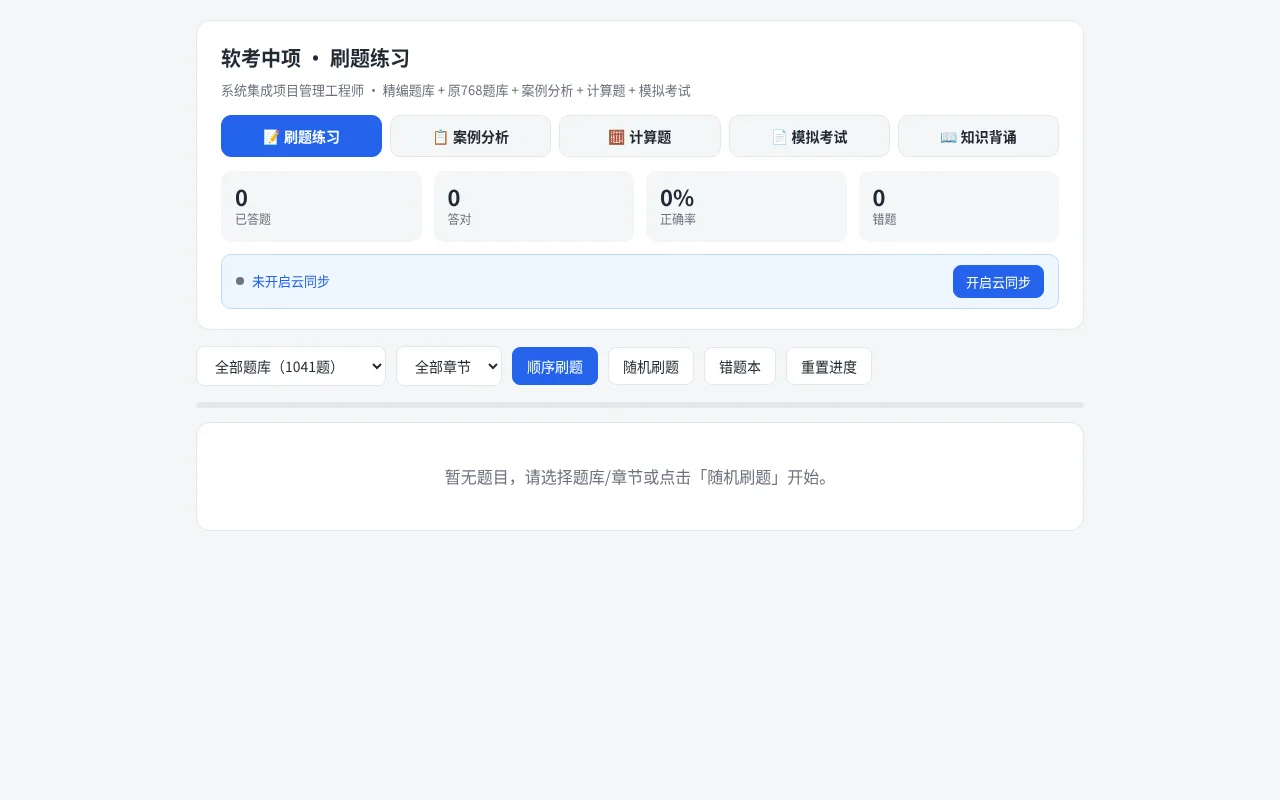
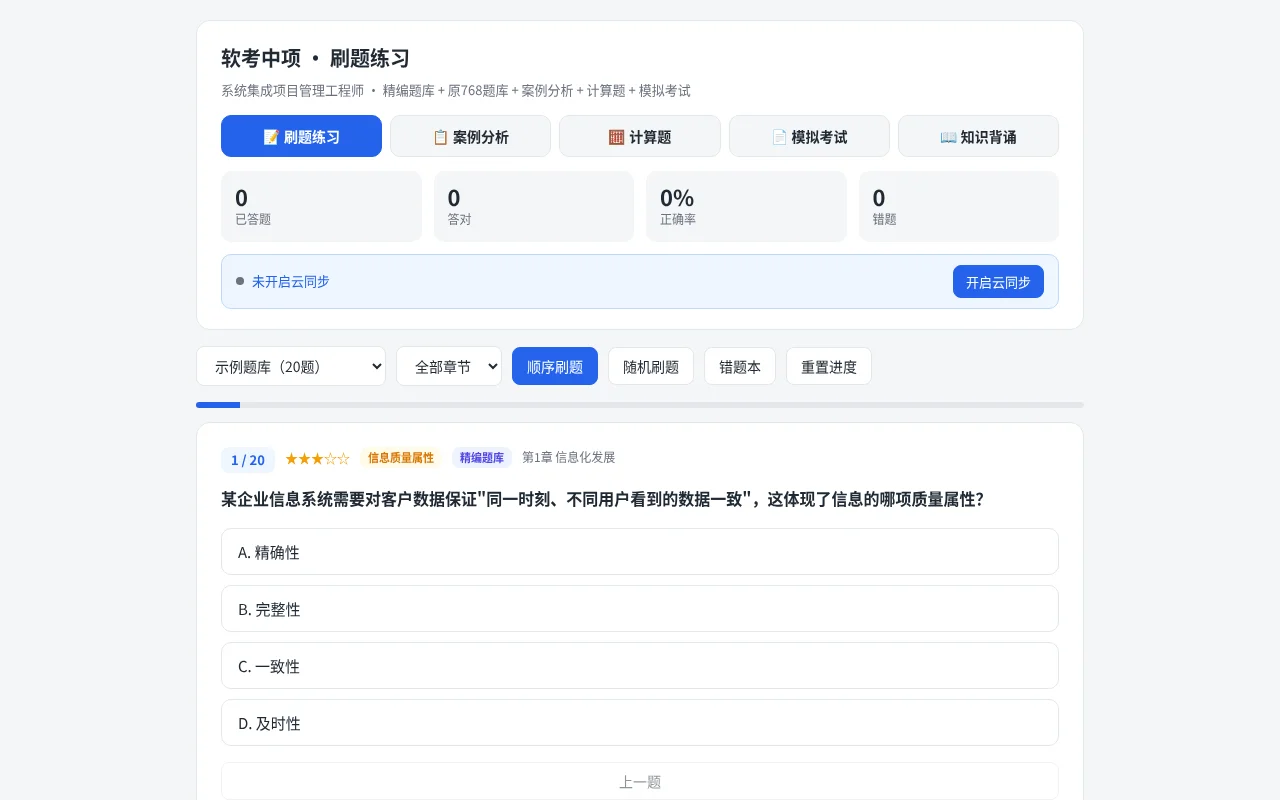
Fix interactive template preview

diff --git a/wb1024-c456-85da7171/showcase/preview.html b/wb1024-c456-85da7171/showcase/preview.html
@@ -173,7 +173,7 @@ button:disabled{opacity:.5;cursor:not-allowed}
   <div id="mode-quiz">
     <div class="controls">
       <select id="sel-src">
-        <option value="all">全部题库（1041题）</option>
+        <option value="all">示例题库（20题）</option>
         <option value="jb">精编题库（真题风格）</option>
         <option value="768">原768题题库</option>
         <option value="zt">历年真题</option>
@@ -273,7 +273,7 @@ button:disabled{opacity:.5;cursor:not-allowed}
   </div>
 </div>
 
-<script>window.quizDatabase={from(){return {select(){return {eq(){return {async maybeSingle(){return {data:null,error:null}}}}},async upsert(){return {error:null}}}}};
+<script>window.quizDatabase={from: function(){return {select:function(){return {eq:function(){return {maybeSingle:async function(){return {data:null,error:null}}}}}},upsert:async function(){return {error:null}}}}};
 window.QUESTION_DATA = [{"ch": 1, "tag": "信息质量属性", "star": "★★★☆☆", "q": "某企业信息系统需要对客户数据保证\"同一时刻、不同用户看到的数据一致\"，这体现了信息的哪项质量属性？", "opts": ["A. 精确性", "B. 完整性", "C. 一致性", "D. 及时性"], "ans": "C", "exp": "一致性指信息在不同时间、不同来源之间保持统一、无矛盾。精确性指信息准确无误，完整性指信息齐全不缺失，及时性指信息在需要时能及时获取。", "src": "jb"}, {"ch": 1, "tag": "国家信息化六要素", "star": "★★★★☆", "q": "国家信息化体系六要素中，作为信息化建设的基础和支撑，为其他要素提供资源的是？", "opts": ["A. 信息技术应用", "B. 信息网络", "C. 信息资源", "D. 信息化人才"], "ans": "C", "exp": "六要素：信息资源（核心/基础）、信息网络（基础）、信息技术应用（龙头）、信息技术和产业、信息化人才、信息化政策法规和标准规范。信息资源是信息化的核心和基础。", "src": "jb"}, {"ch": 1, "tag": "两化融合", "star": "★★★☆☆", "q": "关于\"两化融合\"，下列说法正确的是？", "opts": ["A. 指工业化和城镇化融合", "B. 指信息化和工业化深度融合，以信息化带动工业化、以工业化促进信息化", "C. 仅指企业上云", "D. 与智能制造无关"], "ans": "B", "exp": "两化融合=信息化与工业化融合。A混淆城镇化，C过于片面，D错误（智能制造是两化融合的重要体现）。", "src": "jb"}, {"ch": 1, "tag": "新型基础设施", "star": "★★★★☆", "q": "下列哪一项不属于\"新型基础设施建设\"（新基建）的三大方向之一？", "opts": ["A. 信息基础设施", "B. 融合基础设施", "C. 创新基础设施", "D. 传统交通基础设施"], "ans": "D", "exp": "新基建三大方向：信息基础设施（5G、数据中心等）、融合基础设施（智能交通、智慧能源等）、创新基础设施（重大科技、产业技术创新等）。传统交通基础设施不属于新基建。", "src": "jb"}, {"ch": 1, "tag": "数字中国", "star": "★★★☆☆", "q": "\"数字中国\"建设的\"2522\"框架中，第二个\"2\"指的是？", "opts": ["A. 两大基础", "B. 两大能力", "C. 两个环境", "D. 两大体系"], "ans": "B", "exp": "\"2522\"框架：夯实数字基础设施和数据资源体系\"两大基础\"，推进数字技术与经济/政治/文化/社会/生态文明建设\"五位一体\"深度融合，强化数字技术创新体系和数字安全屏障\"两大能力\"，优化数字化发展国内国际\"两个环境\"。", "src": "jb"}, {"ch": 1, "tag": "数字经济", "star": "★★★★☆", "q": "关于数字经济的\"四化\"框架，下列说法错误的是？", "opts": ["A. 数字产业化", "B. 产业数字化", "C. 数据价值化", "D. 城市数字化"], "ans": "D", "exp": "数字经济\"四化\"：数字产业化、产业数字化、数据价值化、数字化治理。城市数字化不属于四化框架。", "src": "jb"}, {"ch": 1, "tag": "数字化转型", "star": "★★★★☆", "q": "企业数字化转型的本质是？", "opts": ["A. 单纯购买新的信息系统", "B. 利用数字技术重构业务流程、商业模式和组织，创造新价值", "C. 把纸质文件电子化", "D. 裁员降本"], "ans": "B", "exp": "数字化转型是系统性变革，核心是用数字技术重塑业务模式、组织形态和商业模式，创造新价值。A、C是误区，D是错误导向。", "src": "jb"}, {"ch": 1, "tag": "元宇宙", "star": "★★☆☆☆", "q": "关于元宇宙，下列描述正确的是？", "opts": ["A. 元宇宙是单一公司开发的游戏", "B. 元宇宙是整合多种新技术产生的虚实相融的互联网应用和社会形态", "C. 元宇宙等同于虚拟现实VR", "D. 元宇宙不需要网络"], "ans": "B", "exp": "元宇宙是整合区块链、VR/AR、人工智能、数字孪生等技术的虚实融合新形态。A、C、D均错误。", "src": "jb"}, {"ch": 1, "tag": "数据要素", "star": "★★★★☆", "q": "数据作为新型生产要素，其区别于土地、资本等传统要素的显著特征，下列表述最准确的是？", "opts": ["A. 数据会因使用而被消耗", "B. 数据可无限复制、非排他性使用，且越用价值越高", "C. 数据价值与数据量严格成正比", "D. 数据只能归政府所有"], "ans": "B", "exp": "数据要素具有可复制、可共享、非竞争性（使用不消耗）等特点，可通过分析挖掘增值，即\"越用越有价值\"。A错误（数据不因使用消耗），C错误（价值取决于质量与分析能力），D错误（数据权属多元）。", "src": "jb"}, {"ch": 1, "tag": "数据要素市场化", "star": "★★★★★", "q": "推进数据要素市场化配置，其制度基础的核心是？", "opts": ["A. 数据产权制度", "B. 数据免费开放制度", "C. 数据垄断制度", "D. 数据私有化制度"], "ans": "A", "exp": "数据要素市场化的基础制度包括\"数据产权、流通交易、收益分配、安全治理\"四个方面，其中数据产权制度是核心和前提，解决\"数据归谁、怎么用、收益怎么分\"的问题。", "src": "jb"}, {"ch": 1, "tag": "数字政府", "star": "★★★★☆", "q": "数字政府建设的关键特征不包括下列哪一项？", "opts": ["A. 数据驱动决策", "B. 一体化政务服务", "C. 线上线下割裂", "D. 提升政府治理效能"], "ans": "C", "exp": "数字政府强调\"一网通办\"\"一网统管\"，推动线上线下融合、数据共享，提升治理效能。C\"线上线下割裂\"与数字政府目标相悖。", "src": "jb"}, {"ch": 1, "tag": "工业互联网", "star": "★★★★★", "q": "工业互联网的三大体系是？", "opts": ["A. 网络、平台、安全", "B. 硬件、软件、数据", "C. 感知、传输、应用", "D. 采集、存储、分析"], "ans": "A", "exp": "工业互联网三大体系：网络体系（互联互通的基础）、平台体系（数据汇聚与赋能的载体）、安全体系（保障）。", "src": "jb"}, {"ch": 1, "tag": "东数西算", "star": "★★★★☆", "q": "\"东数西算\"工程的核心目的是？", "opts": ["A. 把东部数据全部迁移到西部存储", "B. 通过构建全国一体化算力网络，优化算力资源布局，促进东西部协同", "C. 只在西部建设数据中心", "D. 减少全国的数据中心数量"], "ans": "B", "exp": "\"东数西算\"通过全国一体化大数据中心体系，将东部算力需求有序引导到西部，优化算力布局、降低能耗、促进区域协调发展。A、C、D表述片面。", "src": "jb"}, {"ch": 1, "tag": "数据安全法", "star": "★★★★★", "q": "依据《中华人民共和国数据安全法》，下列关于数据分类分级保护的说法正确的是？", "opts": ["A. 所有数据统一按一个等级保护", "B. 国家建立数据分类分级保护制度，对重要数据实行重点保护", "C. 数据分类分级只适用于政府数据", "D. 个人数据无需任何保护"], "ans": "B", "exp": "《数据安全法》明确国家建立数据分类分级保护制度，对关系国家安全、国民经济命脉等重要数据实行重点保护，同时加强个人信息保护。", "src": "jb"}, {"ch": 1, "tag": "数字化转型成熟度", "star": "★★★★★", "q": "评估企业数字化转型成熟度时，通常从多个维度衡量。下列不属于常见成熟度维度的是？", "opts": ["A. 战略与组织", "B. 数据与技术", "C. 业务流程", "D. 员工考勤打卡"], "ans": "D", "exp": "数字化转型成熟度常见维度：战略、组织、文化、数据、技术、流程、客户体验等。\"员工考勤打卡\"是日常行政事项，不是转型成熟度衡量维度。", "src": "jb"}, {"ch": 1, "tag": "数字孪生", "star": "★★★★☆", "q": "关于数字孪生，下列说法最准确的是？", "opts": ["A. 数字孪生只是三维动画展示", "B. 数字孪生是物理实体在数字空间的全要素映射，并可双向交互、动态演进", "C. 数字孪生等同于传统仿真", "D. 数字孪生只能用于制造业"], "ans": "B", "exp": "数字孪生是物理对象的数字化镜像，强调虚实双向映射、实时同步、动态演进，可应用于制造、城市、医疗等多领域。A、C低估其内涵，D范围过窄。", "src": "jb"}, {"ch": 1, "tag": "信息化建设发展规律", "star": "★★★★☆", "q": "从信息化发展的宏观规律看，下列认识正确的是？", "opts": ["A. 信息化建设可以一蹴而就", "B. 信息化遵循\"技术驱动、业务牵引、标准先行、安全同步\"的规律", "C. 信息化只需关注技术，无需管理", "D. 信息化成功与否与组织变革无关"], "ans": "B", "exp": "信息化是长期系统工程，需要技术与业务深度融合、标准规范先行、安全同步保障，并伴随组织与管理变革。A、C、D认识片面。", "src": "jb"}, {"ch": 2, "tag": "OSI七层模型", "star": "★★★★★", "q": "在OSI参考模型中，负责\"端到端\"可靠数据传输、差错控制和流量控制的层是？", "opts": ["A. 数据链路层", "B. 网络层", "C. 传输层", "D. 会话层"], "ans": "C", "exp": "传输层提供端到端（进程到进程）的可靠传输、差错控制和流量控制（TCP）。数据链路层是相邻节点间，网络层负责路由寻址。", "src": "jb"}, {"ch": 2, "tag": "OSI七层模型", "star": "★★★★★", "q": "下列协议/设备与OSI层的对应关系中，错误的是？", "opts": ["A. IP协议——网络层", "B. HTTP协议——应用层", "C. 交换机——数据链路层", "D. 路由器——传输层"], "ans": "D", "exp": "路由器工作在网络层（根据IP地址转发），不是传输层。交换机在数据链路层，IP在网络层，HTTP在应用层。", "src": "jb"}, {"ch": 2, "tag": "TCP/IP协议", "star": "★★★★☆", "q": "关于TCP和UDP的区别，下列说法正确的是？", "opts": ["A. TCP是面向无连接的，UDP是面向连接的", "B. TCP提供可靠传输，UDP提供不可靠传输", "C. UDP保证数据按序到达", "D. TCP不能用于传输文件"], "ans": "B", "exp": "TCP面向连接、可靠、有确认重传机制；UDP无连接、不可靠、不保证按序，但效率高、开销小。", "src": "jb"}];
 window.CASE_DATA = {"cases": [{"title": "案例一：范围管理", "domain": "范围管理", "scenario": "某公司承接一个办公自动化系统开发项目。项目启动后，项目经理王某未编制范围管理计划就组织开发。开发过程中，客户不断提出新需求，王某为了客户满意度都口头答应，直接安排开发人员实现。由于需求不断增加，项目范围不断扩大，进度严重滞后，成本超支。", "questions": [{"q": "问题1：请指出该项目在范围管理方面存在的主要问题。", "points": "8分", "keys": ["范围管理计划", "需求", "收集", "分析", "范围说明书", "范围基准", "变更", "范围蔓延", "确认", "控制"], "answer": ["未编制范围管理计划和需求管理计划。", "未进行详细的需求收集和需求分析。", "未定义范围、未形成项目范围说明书和范围基准。", "客户新增需求未走变更控制流程，导致范围蔓延。", "需求变更仅口头答应，未书面记录和评估影响。", "未对范围进行确认和控制。"]}, {"q": "问题2：请给出改进措施。", "points": "7分", "keys": ["范围管理计划", "需求管理计划", "访谈", "原型", "需求文件", "需求跟踪矩阵", "范围说明书", "WBS", "范围基准", "变更控制", "CCB", "确认范围", "防止范围蔓延"], "answer": ["编制范围管理计划、需求管理计划，明确范围管理流程。", "采用访谈、原型等方法系统收集和分析需求，形成需求文件和需求跟踪矩阵。", "定义范围，编制项目范围说明书，创建WBS，建立范围基准。", "建立整体变更控制流程，所有变更需书面申请、评估影响、CCB审批。", "定期确认范围，监控范围基准，防止范围蔓延。"]}]}, {"title": "案例二：进度管理", "domain": "进度管理", "scenario": "某项目计划6个月完成。项目启动后，项目经理编制了进度计划，但未识别关键路径。执行到第3个月时，由于关键活动资源不足，进度延误1个月。项目经理安排团队加班赶工，但仍有部分活动因技术问题返工。", "questions": [{"q": "问题1：指出进度管理存在的问题。", "points": "8分", "keys": ["关键路径", "资源估算", "资源不足", "风险识别", "返工", "进度控制", "纠偏", "赶工"], "answer": ["未识别关键路径，对关键活动关注不足。", "未做资源估算，关键活动资源不足。", "未进行风险识别和应对，技术问题导致返工。", "进度控制不到位，延误未及时发现和纠偏。", "赶工未评估对成本、质量、风险的影响。"]}, {"q": "问题2：请说明进度压缩的两种常用技术及各自优缺点。", "points": "7分", "keys": ["赶工", "资源", "成本", "快速跟进", "并行", "风险", "返工"], "answer": ["赶工：增加资源或加班，以成本换时间，可能增加成本和风险，适用于能通过增加资源缩短工期的活动。", "快速跟进：将顺序活动并行，以风险换时间，可能造成返工和风险增加，适用于能并行开展的活动。"]}]}, {"title": "案例三：成本管理（挣值）", "domain": "成本管理", "scenario": "某项目BAC=200万元。项目经理在项目执行过程中，未定期进行成本绩效分析。第5个月检查发现：PV=120万，EV=100万，AC=130万。", "questions": [{"q": "问题1：计算SV、CV、SPI、CPI，并分析项目绩效。", "points": "8分", "keys": ["-20", "-30", "0.83", "0.77", "落后", "超支"], "answer": ["SV = EV - PV = 100 - 120 = -20万，进度落后。", "CV = EV - AC = 100 - 130 = -30万，成本超支。", "SPI = EV/PV = 100/120 ≈ 0.83，进度落后17%。", "CPI = EV/AC = 100/130 ≈ 0.77，成本超支。"]}, {"q": "问题2：若偏差是典型的，求ETC和EAC。", "points": "7分", "keys": ["130", "260"], "answer": ["ETC = (BAC - EV)/CPI = (200 - 100)/(100/130) = 100×130/100 = 130万。", "EAC = AC + ETC = 130 + 130 = 260万（或 EAC=BAC/CPI=200/(100/130)=260万）。"]}]}, {"title": "案例四：风险管理", "domain": "风险管理", "scenario": "某项目技术方案较新，风险较大。项目启动后，项目经理未做风险管理规划，也未识别风险。开发到一半时，关键技术方案失败，导致项目暂停2个月。项目团队临时讨论应对措施，但已造成严重损失。", "questions": [{"q": "问题1：指出风险管理存在的问题。", "points": "8分", "keys": ["风险管理计划", "风险识别", "风险登记册", "定性", "定量", "概率", "影响", "风险应对", "应急储备", "监控"], "answer": ["未编制风险管理计划。", "未进行风险识别，未建立风险登记册。", "未进行定性和定量风险分析，未评估风险概率和影响。", "未提前规划风险应对措施，风险发生后被动应对。", "未设置应急储备。", "未监控风险，风险发生后才发现。"]}, {"q": "问题2：请给出威胁（消极风险）的应对策略，并各举一例。", "points": "7分", "keys": ["规避", "转移", "减轻", "接受", "保险", "外包", "冗余", "应急储备"], "answer": ["规避：改变计划消除风险，如放弃高风险技术方案。", "转移：将风险转给第三方，如购买保险、外包。", "减轻：降低概率或影响，如增加冗余、原型验证。", "接受：主动或被动接受，如设置应急储备。"]}]}, {"title": "案例五：沟通与干系人管理", "domain": "沟通管理 + 干系人管理", "scenario": "某项目涉及多个部门。项目经理在项目过程中，重要信息只通过口头传达，未形成书面记录。某关键干系人（财务部门领导）对项目进度不满，多次抱怨不了解项目情况，最终对项目不支持。", "questions": [{"q": "问题1：指出沟通和干系人管理存在的问题。", "points": "8分", "keys": ["沟通管理计划", "书面", "干系人", "分析", "参与计划", "监督", "绩效报告", "权力"], "answer": ["未编制沟通管理计划，沟通方式不规范。", "重要信息仅口头传达，未书面记录，导致信息丢失。", "未识别关键干系人，未进行干系人分析。", "未编制干系人参与计划，未针对关键干系人制定策略。", "未监督干系人参与，未及时发现干系人不满意。", "缺乏绩效报告机制，干系人不知项目进展。"]}, {"q": "问题2：请给出改进措施。", "points": "7分", "keys": ["沟通管理计划", "书面记录", "会议", "识别干系人", "权力利益", "干系人登记册", "重点管理", "绩效报告"], "answer": ["编制沟通管理计划，明确沟通对象、内容、频率、方式。", "重要信息书面记录，采用交互式沟通（会议）确保理解。", "识别干系人，用权力/利益方格分析，建立干系人登记册。", "编制干系人参与计划，对高权力干系人采取\"重点管理\"策略。", "建立定期绩效报告机制，主动向干系人通报项目进展。"]}]}, {"title": "案例六：质量管理 + 变更管理（综合）", "domain": "质量管理 + 变更管理", "scenario": "某项目临近交付，客户提出修改需求。项目经理为了按时交付，未走变更流程，直接安排开发人员修改。修改后未进行充分测试就上线，结果系统出现严重缺陷，客户投诉。", "questions": [{"q": "问题1：指出该项目在变更管理和质量管理方面的问题。", "points": "8分", "keys": ["变更控制", "评估", "CCB", "书面", "测试", "质量控制", "质量", "文档", "基准"], "answer": ["变更管理：客户需求变更未走整体变更控制流程；未评估变更影响；变更未书面记录、未CCB审批。", "质量管理：修改后未进行充分测试；未进行质量控制；为赶进度牺牲质量。", "未更新相关项目文档和基准。"]}, {"q": "问题2：请说明正确的变更控制流程。", "points": "7分", "keys": ["变更请求", "评估", "CCB", "审批", "实施", "验证", "更新", "归档"], "answer": ["提出变更请求（书面）。", "分析评估变更对范围、进度、成本、质量的影响。", "提交CCB审批（影响基准的变更）。", "批准后实施变更。", "验证变更结果，更新项目文档和基准，记录归档。"]}]}, {"title": "案例七：采购与合同管理", "domain": "采购管理 + 合同管理", "scenario": "某项目需要采购一批服务器和软件开发外包服务。项目经理为赶进度，未编制采购管理计划，直接口头联系一家熟悉的供应商供货；软件开发则未招标直接指定了某公司，也未签订书面合同。项目后期，供应商交货延迟且质量不达标，开发方报价远高于市场价，双方就责任和价款产生纠纷，项目陷入停滞。", "questions": [{"q": "问题1：指出该项目在采购管理和合同管理方面存在的问题。", "points": "8分", "keys": ["采购管理计划", "招标", "供应商", "评估", "合同", "书面", "SOW", "工作说明书", "询价", "供方选择", "合同类型"], "answer": ["未编制采购管理计划，采购过程不规范。", "未按规定进行招标/询价，直接指定供应商，缺乏竞争。", "未进行供应商评估和供方选择，未比较价格、质量、信誉。", "未编制采购工作说明书（SOW），采购范围和要求不明确。", "未签订书面合同，未明确交付、验收、价款、违约责任。", "合同类型选择不当，未合理分配风险。"]}, {"q": "问题2：请说明采购管理的主要过程，并列举至少三种常见的合同类型。", "points": "7分", "keys": ["采购管理计划", "实施采购", "控制采购", "合同类型", "固定总价", "成本补偿", "工料合同", "单价合同", "风险"], "answer": ["采购管理过程：规划采购管理（编制采购管理计划）→实施采购（获取供方响应、选定卖方）→控制采购（管理采购关系、监督合同履约）→结束采购（合同收尾）。", "常见合同类型：固定总价合同（总价合同）、成本补偿合同（成本加酬金）、工料合同（时间和材料合同）、单价合同等。", "固定总价合同风险由卖方承担；成本补偿合同风险由买方承担；工料合同风险共担。"]}]}, {"title": "案例八：配置管理", "domain": "配置管理", "scenario": "某软件项目开发过程中，多个开发人员同时修改代码，经常出现版本混乱、代码覆盖丢失的现象。项目未建立配置库，没有基线概念，测试人员不知道测试的是哪个版本，交付时也拿不出一致的版本。", "questions": [{"q": "问题1：指出该项目在配置管理方面存在的问题。", "points": "8分", "keys": ["配置管理计划", "配置库", "开发库", "受控库", "产品库", "基线", "版本控制", "配置项", "变更", "状态"], "answer": ["未编制配置管理计划，配置管理过程缺失。", "未建立配置库（开发库、受控库、产品库），代码管理混乱。", "未定义配置项和基线，无法确定版本。", "未进行版本控制，代码覆盖丢失。", "未建立配置变更控制流程。", "未记录配置状态，测试和交付无一致版本。"]}, {"q": "问题2：请说明配置库的三种类型及其作用，并简述配置管理的主要活动。", "points": "7分", "keys": ["开发库", "受控库", "产品库", "配置识别", "配置控制", "状态记录", "配置审计", "基线"], "answer": ["三种配置库：开发库（动态库，开发人员使用，可修改）；受控库（主库，存放基线，需审批才能修改）；产品库（静态库，存放正式发布的产品）。", "配置管理主要活动：配置识别（标识配置项和基线）、配置控制（变更控制）、配置状态记录、配置审计。", "基线的建立和变更控制是配置管理的核心。"]}]}, {"title": "案例九：整体管理 + 收尾管理（综合）", "domain": "整体管理 + 收尾管理", "scenario": "某项目进入收尾阶段。项目经理认为开发完成即可交付，未组织系统测试和用户验收，未整理项目文档和经验教训，未进行合同收尾，也未召开项目总结会。交付后系统频繁出问题，客户拒绝验收，项目无法正式结束。", "questions": [{"q": "问题1：指出该项目在整体管理和收尾管理方面存在的问题。", "points": "8分", "keys": ["验收", "测试", "文档", "经验教训", "合同收尾", "总结会", "移交", "验收标准", "收尾"], "answer": ["未组织系统测试和用户验收测试，缺乏验收标准。", "未整理项目文档和成果，未进行成果移交。", "未总结经验教训，未形成组织过程资产。", "未进行合同收尾，未结清款项、释放资源。", "未召开项目总结会，未正式关闭项目。", "收尾管理不到位，导致项目无法正式结束。"]}, {"q": "问题2：请说明项目收尾管理的主要内容。", "points": "7分", "keys": ["验收", "移交", "文档", "经验教训", "合同收尾", "资源释放", "总结", "归档", "行政收尾"], "answer": ["完成项目验收，确认可交付成果满足验收标准。", "进行成果移交，向客户移交系统、文档和培训。", "整理项目文档并归档，形成组织过程资产。", "总结经验教训，召开项目总结会。", "进行合同收尾（行政收尾），结清款项、释放资源。", "正式关闭项目或阶段，解散项目团队。"]}]}, {"title": "案例十：资源与团队管理", "domain": "资源管理 + 团队管理", "scenario": "某项目团队成员来自多个部门，项目启动后，项目经理未制定资源管理计划，团队成员职责不清、经常推诿。核心开发人员因任务过重情绪低落，提出离职。项目经理未及时沟通协调，导致项目进度严重滞后，团队士气低落。", "questions": [{"q": "问题1：指出该项目在资源管理和团队管理方面存在的问题。", "points": "8分", "keys": ["资源管理计划", "职责", "RACI", "职责分配矩阵", "冲突", "激励", "沟通", "团队建设", "角色"], "answer": ["未制定资源管理计划，资源获取和分配不明确。", "团队成员角色和职责不清，未使用RACI等职责分配矩阵。", "未进行团队建设，团队协作和凝聚力不足。", "未识别和解决冲突，核心成员情绪低落未及时干预。", "未采取有效激励措施，未关注成员工作负荷。", "未及时沟通协调，核心成员离职风险未及时化解。"]}, {"q": "问题2：请列举至少四种冲突处理方法，并说明各自的适用场景。", "points": "7分", "keys": ["回避", "缓和", "妥协", "强制", "合作", "解决问题", "冲突处理"], "answer": ["回避/撤退：冲突不激烈、需要时间冷静时。", "缓和/包容：追求和谐、问题不关键时。", "妥协：双方各让一步、时间紧迫时。", "强制/命令：紧急情况、需快速决策时。", "合作/解决问题：需找到最佳方案、双方都重要时（最理想）。"]}]}, {"title": "【真题·2026年5月】范围管理", "domain": "范围管理（真题）", "scenario": "小石负责某项目。项目初期他仅根据自己的经验整理需求，未制定范围管理计划和需求管理计划；需求收集后未评审确认，导致部分需求因技术限制无法实现；WBS编制未全员参与、未包含全部项目工作；执行中开发工程师擅自增加一个AI组件，小石未评估影响直接接受并更新测试用例；新增需求也未走变更控制流程。到第3个月末，原定目标只有部分达成，验收时才发现诸多问题。", "questions": [{"q": "问题1（9分）：简述小石在项目范围管理方面存在的问题。", "points": "9分", "keys": ["范围管理计划", "需求管理计划", "需求收集", "评审", "确认", "范围说明书", "WBS", "全员参与", "变更控制", "范围蔓延", "范围确认"], "answer": ["未制定范围管理计划。", "未制定需求管理计划。", "不应仅凭自己的经验整理需求，应考虑内部相关干系人的需求。", "需求收集后未进行评审/确认，导致部分需求因技术限制无法实现。", "未制定项目范围说明书。", "WBS的编制没有全员参与。", "WBS未包含全部项目工作，分解不完整。", "新增需求未经变更控制流程处理，直接停下其他任务，导致原定目标部分未达成。", "未拒绝或评估开发工程师自行增加AI组件的影响，直接接受导致范围蔓延。", "缺乏阶段性范围确认，直到验收时才发现问题。"]}, {"q": "问题2（3分）：下列哪些可以作为控制范围的依据？A范围基准 B进度基准 C成本基准 D需求文件 E绩效测量基准 F工作绩效信息", "points": "3分", "keys": ["ABDE", "范围基准", "进度基准", "需求文件", "工作绩效信息"], "answer": ["答案：ABDE（范围基准、进度基准、需求文件、工作绩效信息）。", "控制范围的依据包括：项目管理计划（范围基准、进度基准等）、需求文件、工作绩效信息、需求跟踪矩阵等。"]}, {"q": "问题3（5分）：请简述将项目工作分解为工作包时需要开展的活动。", "points": "5分", "keys": ["识别", "分析", "可交付成果", "WBS结构", "编排方法", "自上而下", "逐层细化", "标识编码", "核实"], "answer": ["识别和分析可交付成果及相关工作。", "确定WBS的结构与编排方法。", "自上而下逐层细化分解。", "为WBS组件制定和分配标识编码。", "核实可交付成果分解的程度是否恰当。"]}]}, {"title": "【真题·2026年5月】进度成本计算", "domain": "成本管理（真题）", "scenario": "某智慧城市安防升级项目，总工期6个月，项目预算BAC=1200万元。项目执行至第3个月末，项目经理开展阶段性绩效复盘：计划完成工作量预算PV=650万元，实际已花费AC=700万元，当前已完成工作量对应预算价值EV=585万元。该项目采用典型偏差模式进行后续成本预测。", "questions": [{"q": "问题1（8分）：计算CPI、SPI，并评价项目成本、进度执行状态。", "points": "8分", "keys": ["0.84", "0.9", "超支", "滞后"], "answer": ["CPI = EV/AC = 585/700 ≈ 0.84，CPI<1，项目成本超支。", "SPI = EV/PV = 585/650 = 0.9，SPI<1，项目进度滞后。"]}, {"q": "问题2（6分）：按典型偏差公式，计算完工估算EAC和完工尚需估算ETC。", "points": "6分", "keys": ["1428.57", "732.14"], "answer": ["EAC = BAC/CPI = 1200/0.84 ≈ 1428.57万元。", "ETC = (BAC-EV)/CPI = (1200-585)/0.84 = 615/0.84 ≈ 732.14万元。"]}, {"q": "问题3（6分）：简述项目经理针对当前超支滞后问题可采取的整改措施（至少5条）。", "points": "6分", "keys": ["赶工", "快速跟进", "优化人员", "优化范围", "成本控制", "纠偏"], "answer": ["针对关键路径活动采用赶工，投入优质资源压缩工期。", "梳理非关键路径活动，采用快速跟进，并行开展部分串行工作。", "优化人员结构，替换低效执行人员，提升团队效率。", "重新评估范围，砍掉非必要的低优先级需求。", "加强成本控制，严格审核支出，避免进一步超支。"]}]}, {"title": "【真题·2026年5月】整体变更控制", "domain": "变更管理（真题）", "scenario": "A公司承接某政务信息化升级项目，任命小王为项目经理。项目进入执行阶段后，甲方业务负责人提出新增多项个性化功能需求。小王为维系客户关系，未走正式变更流程，直接口头安排开发团队开发。两周后项目工期滞后、成本超支、部分新增功能与原有系统模块冲突。小王随后临时补写变更申请，直接提交CCB成员审批，未做变更影响分析，也未同步干系人。CCB驳回变更申请。", "questions": [{"q": "问题1（6分）：指出项目经理小王在变更管理过程中存在的6处错误。", "points": "6分", "keys": ["书面申请", "影响分析", "审批", "执行", "补提", "干系人", "风险"], "answer": ["收到新增需求后，未提交正式书面变更申请，私自接收变更。", "未对变更内容开展范围、进度、成本、质量等全方位影响分析。", "变更未经CCB审批通过，擅自安排团队执行变更开发。", "事后补提变更申请，违背变更事前审批的管理原则。", "提交变更前未同步告知相关项目干系人，信息闭塞。", "问题出现后未第一时间排查风险，未制定纠偏措施。"]}, {"q": "问题2（6分）：简述完整的整体变更控制主要工作流程。", "points": "6分", "keys": ["变更请求", "评估", "CCB", "审批", "实施", "验证", "更新", "归档"], "answer": ["提出书面变更请求。", "分析评估变更对范围、进度、成本、质量等的影响。", "提交CCB审批（影响基准的变更）。", "批准后实施变更。", "验证变更结果，更新项目文档和基准，记录归档。"]}, {"q": "问题3（6分）：判断正误——(1)只有甲方干系人有权提出变更请求 (2)所有变更请求都必须形成书面文件 (3)CCB拥有变更审批与执行权限。", "points": "6分", "keys": ["错误", "正确", "错误", "干系人", "书面", "CCB"], "answer": ["(1)错误：任何干系人都可提出变更请求，不只甲方。", "(2)正确：所有变更请求都应形成书面文件（书面记录）。", "(3)错误：CCB拥有审批权限，但执行由项目团队负责，CCB不直接执行。"]}]}, {"title": "【真题·2025年11月】配置管理", "domain": "配置管理（真题）", "scenario": "A科技公司成功中标某高校\"智慧校园\"综合管理平台项目，公司任命老王负责项目管理工作。项目开发过程中，多个开发人员同时修改代码，出现版本混乱、代码覆盖丢失；项目未建立配置库，没有基线概念，测试人员不知道测试的是哪个版本。", "questions": [{"q": "问题1（8分）：简述该项目在配置管理上存在的问题。", "points": "8分", "keys": ["配置管理计划", "配置库", "开发库", "受控库", "产品库", "基线", "版本控制", "配置项", "变更"], "answer": ["未编制配置管理计划。", "未建立配置库（开发库、受控库、产品库）。", "未定义配置项和基线。", "未进行版本控制，代码覆盖丢失。", "未建立配置变更控制流程。", "未记录配置状态，测试和交付无一致版本。"]}, {"q": "问题2（5分）：从配置管理的角度提出具体改进方案。", "points": "5分", "keys": ["配置管理计划", "配置库", "基线", "版本控制", "变更控制", "状态记录", "审计"], "answer": ["编制配置管理计划，明确配置管理流程和职责。", "建立三级配置库（开发库、受控库、产品库）。", "定义配置项，建立基线，实施版本控制。", "建立配置变更控制流程，变更需审批。", "记录配置状态，定期进行配置审计。"]}, {"q": "问题3（4分）：判断正误——(1)受控库允许开发人员直接修改配置项 (2)配置库包含每个配置项的变更历史记录 (3)配置管理需要在项目结束时进行 (4)配置项一般包括\"草稿\"\"正式\"\"修改\"三种状态。", "points": "4分", "keys": ["错误", "正确", "错误", "正确", "受控库", "变更历史", "状态"], "answer": ["(1)错误：受控库需审批才能修改，不允许直接修改。", "(2)正确：配置库包含配置项的变更历史记录。", "(3)错误：配置管理贯穿项目全程，不是只在结束时进行。", "(4)正确：配置项一般包括草稿、正式、修改三种状态。"]}, {"q": "问题4（3分）：配置库通常可分为（ ）、受控库和（ ）三种类型。", "points": "3分", "keys": ["开发库", "产品库"], "answer": ["配置库通常可分为开发库、受控库和产品库三种类型。"]}]}, {"title": "【真题·2025年11月】三点估算与网络图", "domain": "进度管理（真题）", "scenario": "某项目网络图活动J需要补充六标时。活动G的乐观工期30天、最可能42天、悲观57天。项目期望工期100天、标准差8天，项目不可压缩。", "questions": [{"q": "问题1（2分）：活动G基于贝塔分布，用三点估算法求工期和方差。", "points": "2分", "keys": ["42.5", "20.25", "4.5"], "answer": ["期望工期 = (30+4×42+57)/6 = 255/6 = 42.5天。", "标准差 = (57-30)/6 = 27/6 = 4.5天。", "方差 = 4.5² = 20.25。"]}, {"q": "问题2（6分）：假设期望工期100天、标准差8，项目不可压缩，求最小周期、92天完成的概率、84~116天完成的概率。", "points": "6分", "keys": ["76", "16", "95"], "answer": ["最小周期（最乐观时间）= 期望值 - 3×标准差 = 100 - 3×8 = 76天。", "92天完成的概率：92=100-8（左1σ），概率 = 50% - 68%/2 = 16%。", "84~116天（正负2σ）概率 = 95.43% ≈ 95%。"]}]}, {"title": "【真题·2025年11月】资源与团队管理", "domain": "资源管理（真题）", "scenario": "某项目团队使用RACI矩阵分配职责。项目执行中，项目经理发现：有一项活动有两个A（两个责任人），另一项活动也有两个A，某成员执行的活动过多，开发和测试由同一人负责。团队出现冲突，发生争吵。", "questions": [{"q": "问题1（4分）：指出RACI矩阵中存在的问题。", "points": "4分", "keys": ["RACI", "责任人", "A", "一个", "职责", "开发", "测试", "分离"], "answer": ["一项活动有两个A不对，一个活动只能有一个责任人（Accountable）。", "另一项活动也有两个A，同样违反\"单一责任人\"原则。", "某成员执行的活动过多，职责分配不合理。", "开发和测试应由不同的人负责，避免职责不分离。"]}, {"q": "问题2（5分）：管理团队的主要工作有哪些？", "points": "5分", "keys": ["冲突", "考核", "反馈", "团队建设", "激励", "沟通"], "answer": ["分析冲突背景、原因和阶段，采用适当方法解决冲突。", "考核团队绩效并向成员反馈考核结果。", "开展团队建设活动，提升团队凝聚力。", "采取激励措施，调动成员积极性。", "关注成员工作负荷，协调资源，促进沟通。"]}, {"q": "问题3（6分）：冲突发展划分为五个阶段：潜伏阶段、（ ）、感知阶段、（ ）、结束阶段。发生争吵属于（ ）阶段。", "points": "6分", "keys": ["呈现", "爆发"], "answer": ["冲突五阶段：潜伏阶段→呈现阶段→感知阶段→爆发阶段→结束阶段。", "发生争吵属于爆发阶段。"]}]}], "template": {"找茬题": ["流程缺失：有没有对应的管理计划？过程是否完整？", "责任不清：负责人是否明确？角色职责是否清晰？", "工具未用：是否用了正确工具（WBS、RACI、风险登记册、干系人登记册、沟通计划等）？"], "措施题": ["补流程：补充编制缺失的管理计划/过程。", "明责任：明确责任人、规范流程。", "用工具：运用正确的工具和技术。", "强监控：建立监控、反馈、纠偏机制。"], "默写高频清单": ["WBS分解原则、范围说明书内容、范围基准组成。", "项目章程内容、变更控制流程。", "风险管理过程、威胁应对策略、应急储备vs管理储备。", "合同类型及风险分配、招投标流程。", "冲突处理方法、塔克曼模型、激励理论。", "干系人参与度五级、权力/利益方格。"]}};
 window.CALC_DATA = {"formulas": [{"name": "挣值管理（EVM）· 三个基本参数", "items": ["PV（计划价值）：到检查点，计划完成工作的预算价值。", "EV（挣值）：到检查点，实际完成工作的预算价值。", "AC（实际成本）：到检查点，实际完成工作的实际花费。"]}, {"name": "挣值管理（EVM）· 四个绩效指标", "items": ["SV = EV - PV（进度偏差，>0 超前，<0 落后）", "CV = EV - AC（成本偏差，>0 节约，<0 超支）", "SPI = EV / PV（进度绩效指数，>1 超前，<1 落后）", "CPI = EV / AC（成本绩效指数，>1 节约，<1 超支）"]}, {"name": "挣值管理（EVM）· 预测指标", "items": ["BAC：完工预算（成本基准，完工时的PV总和）。", "ETC（非典型，偏差不再发生）= BAC - EV", "ETC（典型，偏差持续）= (BAC - EV) / CPI", "EAC = AC + ETC（典型偏差时 EAC = BAC/CPI）", "VAC = BAC - EAC（完工偏差，>0 节约，<0 超支）", "TCPI（按原计划）= (BAC - EV) / (BAC - AC)", "TCPI（按当前EAC）= (BAC - EV) / (EAC - AC)"]}, {"name": "关键路径法（CPM）", "items": ["总浮动时间（总时差）= LS - ES = LF - EF，关键活动总时差 = 0。", "自由浮动时间（自由时差）= 紧后活动ES的最小值 - 本活动EF。", "正推求ES/EF：ES = 紧前活动EF的最大值；EF = ES + 持续时间。", "逆推求LS/LF：LF = 紧后活动LS的最小值；LS = LF - 持续时间。"]}, {"name": "三点估算（PERT）", "items": ["期望工期 tE = (乐观 + 4×最可能 + 悲观) / 6", "标准差 σ = (悲观 - 乐观) / 6", "方差 σ² = [(悲观 - 乐观) / 6]²", "概率：1σ→68.26%；2σ→95.43%；3σ→99.73%。"]}, {"name": "沟通渠道数", "items": ["沟通渠道数 = n(n-1)/2"]}], "questions": [{"title": "例题1（挣值综合）", "question": "某项目BAC=100万元，计划10天完成。第5天检查：计划完成50%（PV=50万），实际完成40%（EV=40万），实际花费AC=45万。求SV、CV、SPI、CPI，并判断绩效。", "keys": ["-10", "-5", "0.8", "0.89", "落后", "超支"], "answer": ["SV = EV - PV = 40 - 50 = -10万（进度落后）", "CV = EV - AC = 40 - 45 = -5万（成本超支）", "SPI = EV/PV = 40/50 = 0.8（进度落后20%）", "CPI = EV/AC = 40/45 ≈ 0.89（成本超支）", "结论：进度落后、成本超支，需要赶工并加强成本控制。"]}, {"title": "例题2（典型偏差）", "question": "续例题1，若偏差是典型的（将持续），求ETC、EAC。", "keys": ["67.5", "112.5"], "answer": ["ETC = (BAC - EV)/CPI = (100-40)/(40/45) = 60×45/40 = 67.5万", "EAC = AC + ETC = 45 + 67.5 = 112.5万（或 EAC=BAC/CPI=100/(40/45)=112.5万）", "结论：按当前绩效，项目完工将超支约12.5万。"]}, {"title": "例题3（非典型偏差）", "question": "续例题1，若偏差是非典型的（以后不再发生），求ETC、EAC、VAC。", "keys": ["60", "105", "-5"], "answer": ["ETC = BAC - EV = 100 - 40 = 60万", "EAC = AC + ETC = 45 + 60 = 105万", "VAC = BAC - EAC = 100 - 105 = -5万（超支5万）"]}, {"title": "例题4（关键路径）", "question": "某项目活动及依赖关系如下：A(5天)无前置；B(3天)依赖A；C(4天)依赖A；D(6天)依赖B、C；E(2天)依赖D。求关键路径和总工期。", "keys": ["17", "A→C→D→E", "A-C-D-E"], "answer": ["路径1：A→B→D→E = 5+3+6+2 = 16天", "路径2：A→C→D→E = 5+4+6+2 = 17天", "关键路径 = A→C→D→E，总工期 = 17天。"]}, {"title": "例题5（自由浮动时间）", "question": "某活动的最早开始ES=8，持续时间4天，则最早结束EF=12；其紧后活动只有一个，最早开始ES=15，则该活动的自由浮动时间是？", "keys": ["3"], "answer": ["自由浮动 = 紧后活动ES的最小值 - 本活动EF = 15 - 12 = 3天。"]}, {"title": "例题6（三点估算）", "question": "某活动乐观4天、最可能7天、悲观16天，求期望工期和标准差。", "keys": ["8", "2"], "answer": ["tE = (4 + 4×7 + 16)/6 = (4+28+16)/6 = 48/6 = 8天", "σ = (16-4)/6 = 12/6 = 2天"]}, {"title": "例题7（概率）", "question": "续例题6，求项目在6~10天内完成的概率。", "keys": ["68.26", "68"], "answer": ["6~10天 = tE±1σ（8±2），对应1σ概率 = 68.26%。"]}, {"title": "例题8（沟通渠道）", "question": "某项目团队有8名成员，沟通渠道有多少条？", "keys": ["28"], "answer": ["沟通渠道 = 8×7/2 = 28条。"]}], "tips": ["先写公式，再代入数值，最后写结果，步骤清晰便于得分。", "注意保留两位小数（题目要求时）。", "典型/非典型偏差判断：题干\"偏差将持续\"=典型（用CPI）；\"以后不再发生\"=非典型（用BAC-EV）。", "SV/CV判断：>0好，<0差；SPI/CPI判断：>1好，<1差。", "关键路径找最长的路径，不要漏掉并行的路径。"]};
